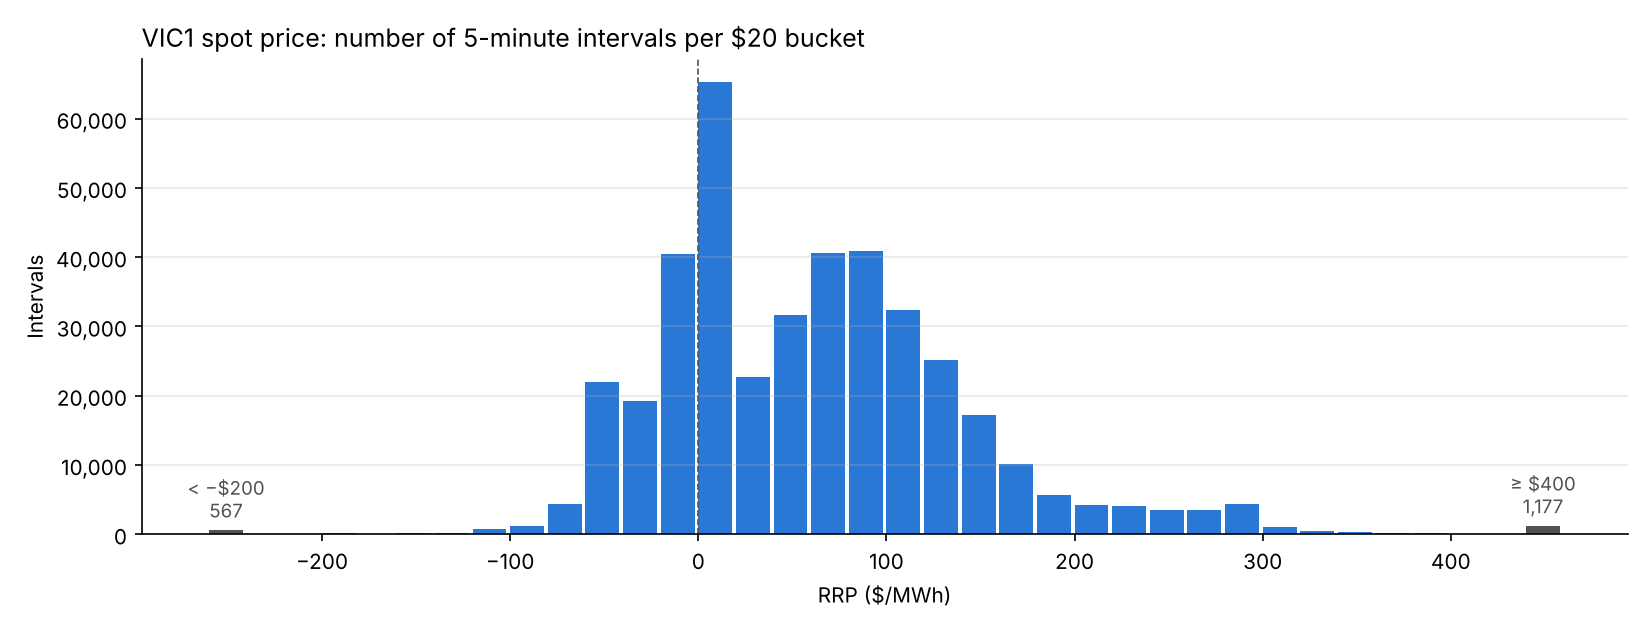
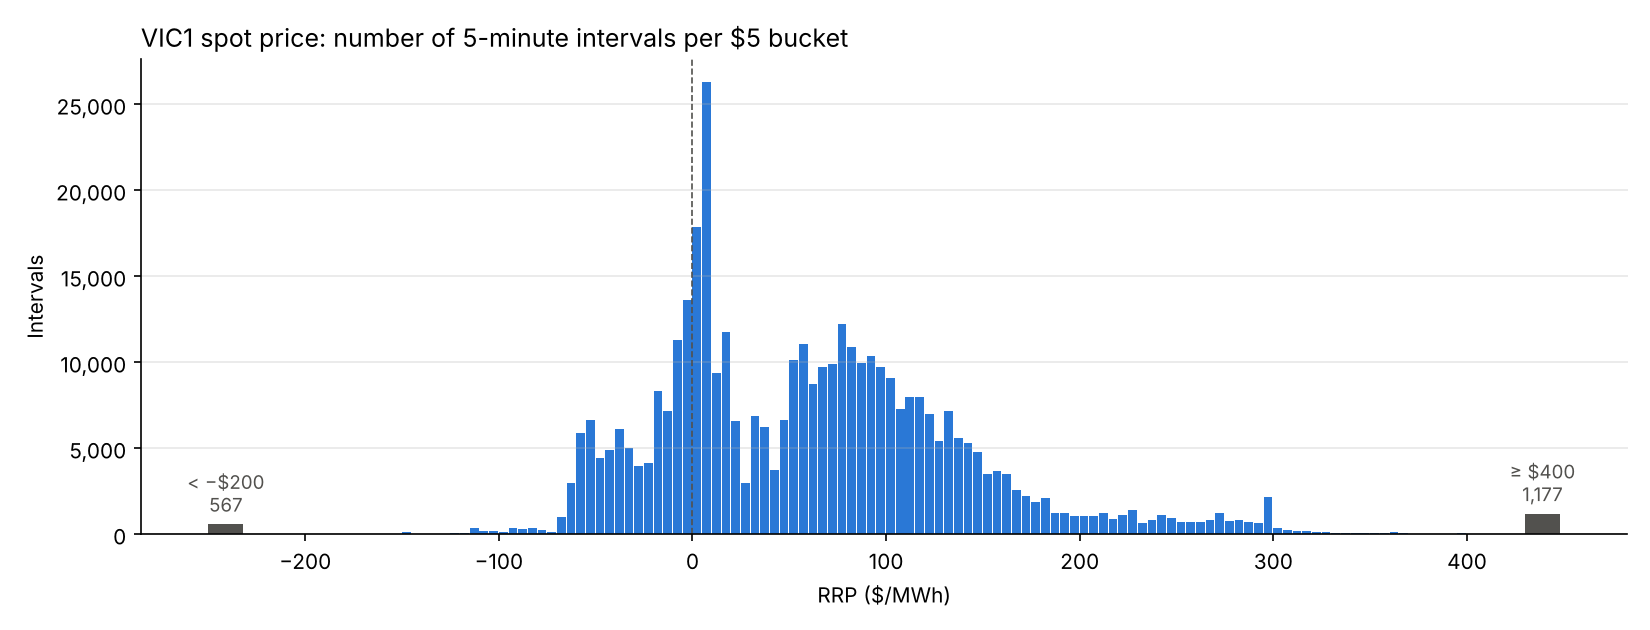
README: drop monthly price chart, use $5 buckets for the price distribution
Claude-Session: https://claude.ai/code/session_015EKiBFD3FjVc75ZmpDSgJV

diff --git a/src/nemspike/reporting/figures.py b/src/nemspike/reporting/figures.py
@@ -58,7 +58,7 @@ def monthly_bar(series: pd.Series, title: str, ylabel: str, path: Path) -> Path:
 
 
 def price_histogram(
-    rrp: pd.Series, path: Path, lo: float = -200, hi: float = 400, width: float = 20
+    rrp: pd.Series, path: Path, lo: float = -200, hi: float = 400, width: float = 5
 ) -> Path:
     edges = np.arange(lo, hi + width, width)
     counts, _ = np.histogram(rrp, bins=edges)
@@ -66,14 +66,17 @@ def price_histogram(
     below, above = int((rrp < lo).sum()), int((rrp >= hi).sum())
     fig, ax = plt.subplots(figsize=(11, 4.2))
     ax.bar(edges[:-1], counts, width=width * 0.9, align="edge", color=BLUE)
+    # Overflow bars keep a fixed $20 width so they stay visible next to narrow buckets. They hold
+    # many buckets' worth of intervals, so their height is not comparable with the main bars.
+    ow = 20.0
     for x, n, label in [
-        (lo - 3 * width, below, f"< \u2212${-lo:,.0f}"),
-        (hi + 2 * width, above, f"≥ ${hi:,.0f}"),
+        (lo - 2.5 * ow, below, f"< \u2212${-lo:,.0f}"),
+        (hi + 1.5 * ow, above, f"≥ ${hi:,.0f}"),
     ]:
-        ax.bar(x, n, width=width * 0.9, align="edge", color=INK)
+        ax.bar(x, n, width=ow * 0.9, align="edge", color=INK)
         ax.annotate(
             f"{label}\n{n:,}",
-            (x + width * 0.45, n),
+            (x + ow * 0.45, n),
             xytext=(0, 4),
             textcoords="offset points",
             ha="center",
@@ -109,12 +112,6 @@ def data_figures(prices: pd.DataFrame, out_dir: Path) -> list[Path]:
     """All data-overview figures. Returns the written paths."""
     m = monthly_means(prices)
     return [
-        monthly_bar(
-            m["rrp"],
-            "VIC1 average spot price (RRP) by month",
-            "$/MWh",
-            out_dir / "price_monthly.png",
-        ),
         monthly_bar(
             m["demand_mw"],
             "VIC1 average operational demand by month",

diff --git a/README.md b/README.md
@@ -18,25 +18,21 @@ locally as parquet (see *Quick start*).
 
 ### What the data looks like
 
-Monthly average prices swing from $17/MWh (October 2023) to $265/MWh (June 2025). Winters are
-usually dearest; spring, with plenty of wind and solar and mild demand, is cheapest. A few
-extreme intervals can dominate a month's average: June 2025 was driven by a small number of
-very high-priced intervals, not a month of uniformly high prices.
-
-![VIC1 average spot price by month](reports/figures/price_monthly.png)
-
 Demand has a clean yearly cycle, peaking in winter (heating) at about 5,900–6,400 MW on a monthly
 average basis. Demand alone does not explain price: winter 2025 demand was similar to winter
-2024, yet June 2025 prices were far higher.
+2024, yet June 2025 averaged $265/MWh, the dearest month in the data, driven by a small number of
+very high-priced intervals.
 
 ![VIC1 average operational demand by month](reports/figures/demand_monthly.png)
 
 The price distribution is the core of the problem. It has several peaks rather than one bell
-curve: the most common bucket is $0–$20 (16 % of intervals), 22 % of intervals are **negative**
-(midday solar; floor −$1,000/MWh), there is a broad hump of "normal" prices around $60–$120, and a
-long right tail: 0.8 % of intervals exceed $300/MWh, up to $19,070/MWh. A single "expected price"
-describes this poorly, which is why the models forecast quantiles and a spike probability.
-Overflow bars group the tails so that every interval is counted.
+curve: a sharp peak just above zero (the $5–$10 bucket alone holds 6.5 % of intervals), a cluster
+of **negative** prices around −$60 to −$30 (22 % of all intervals are negative, mostly midday
+solar; floor −$1,000/MWh), a broad hump of "normal" prices around $50–$130, and a long right tail:
+0.8 % of intervals exceed $300/MWh, up to $19,070/MWh. A single "expected price" describes this
+poorly, which is why the models forecast quantiles and a spike probability. The grey overflow
+bars group everything below −$200 or at $400 and above (wider bars, holding many buckets' worth
+of intervals), so every interval is counted.
 
 ![Distribution of VIC1 5-minute prices](reports/figures/price_distribution.png)
 
